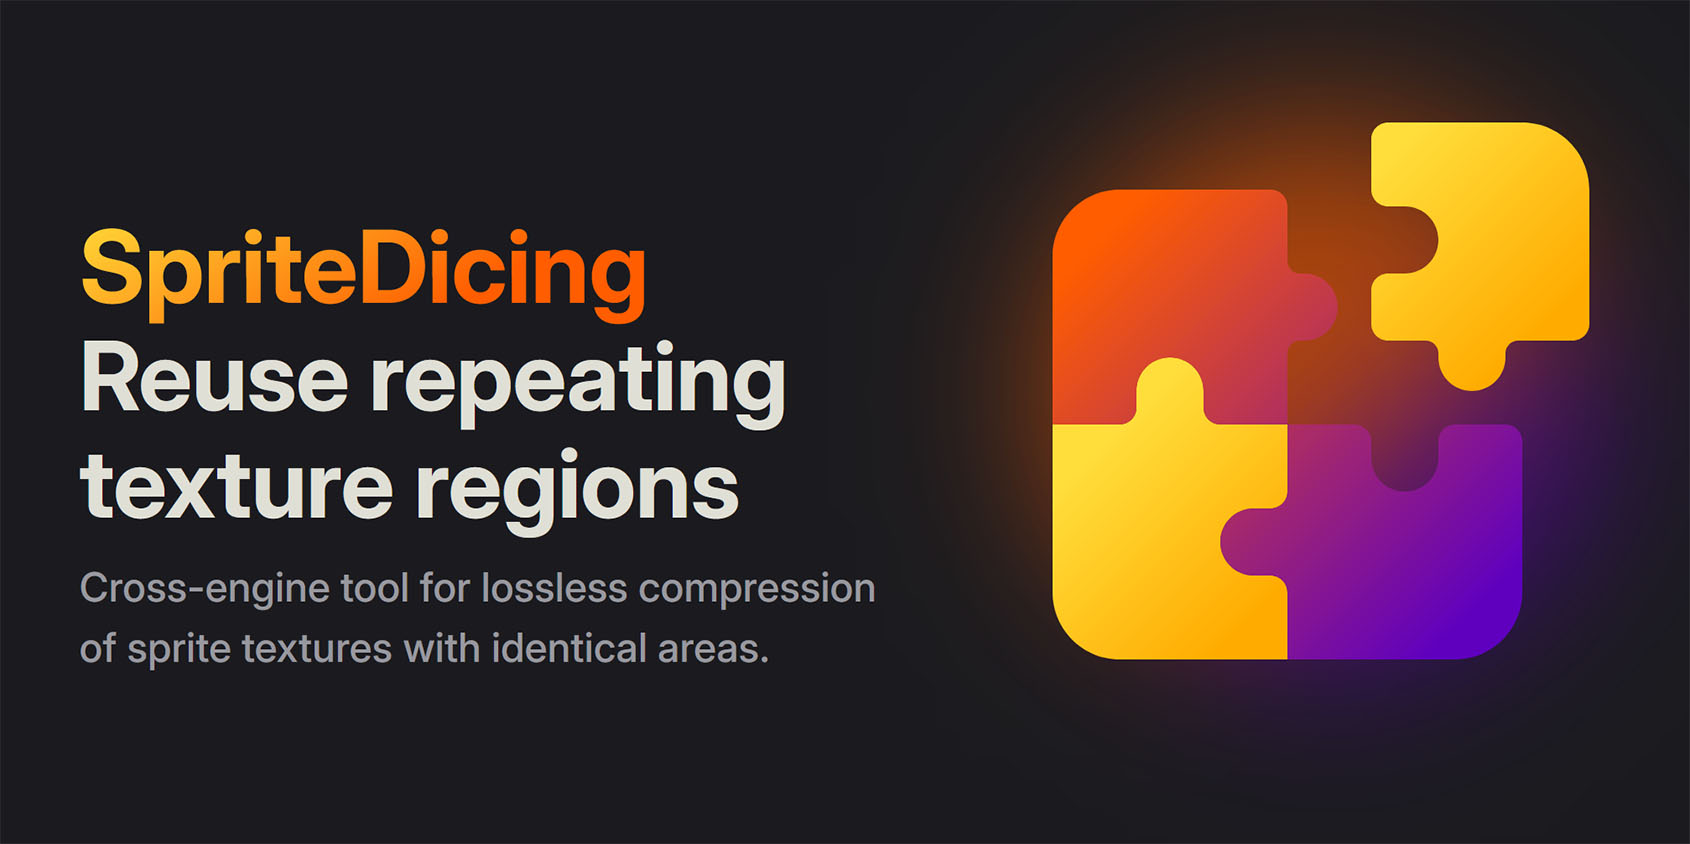
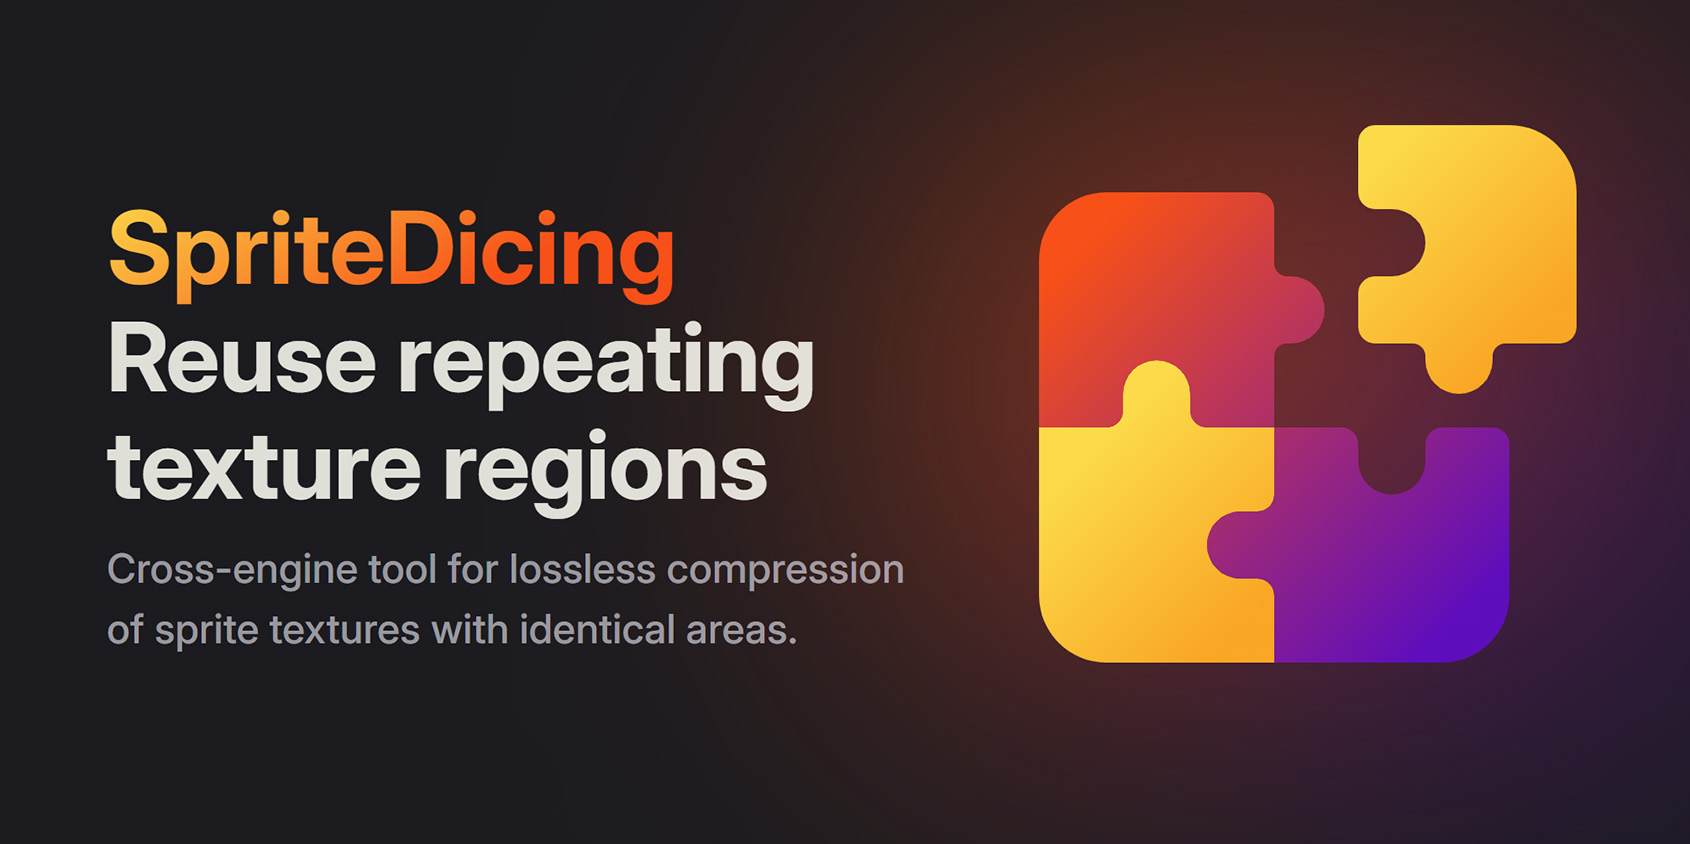
update docs

diff --git a/docs/index.md b/docs/index.md
@@ -117,7 +117,7 @@ hero:
 
 @media (min-width: 960px) {
     :root {
-        --vp-home-hero-image-filter: blur(100px) opacity(0.66);
+        --vp-home-hero-image-filter: blur(120px) opacity(0.66);
     }
 
     .VPHome .name .clip {
@@ -129,6 +129,10 @@ hero:
         line-height: 64px;
         font-size: 57px;
     }
+}
+
+.image-bg {
+    border-radius: 13% !important;
 }
 
 .VPHome .tagline a {
